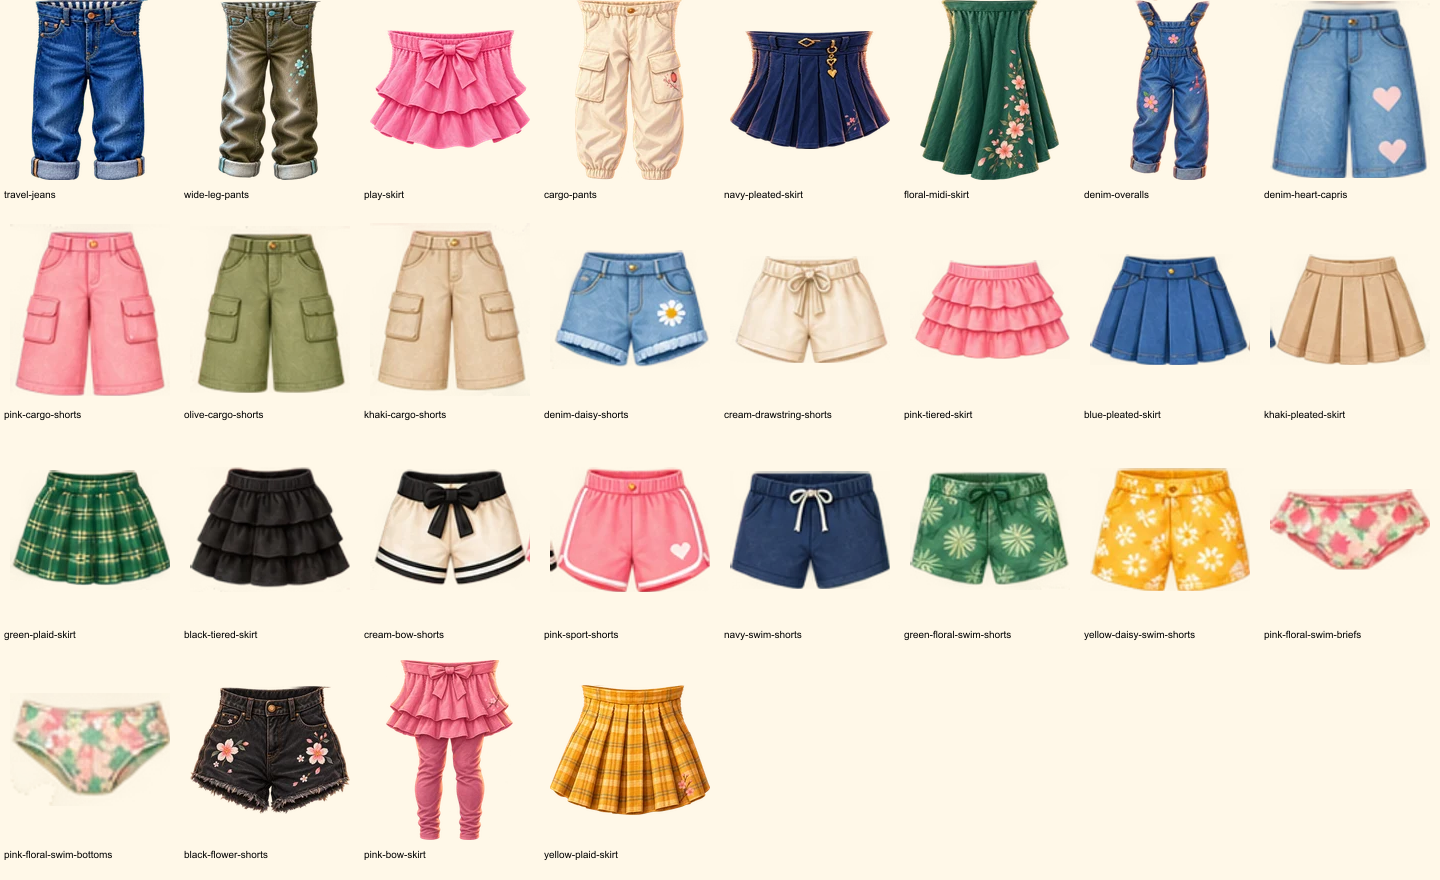
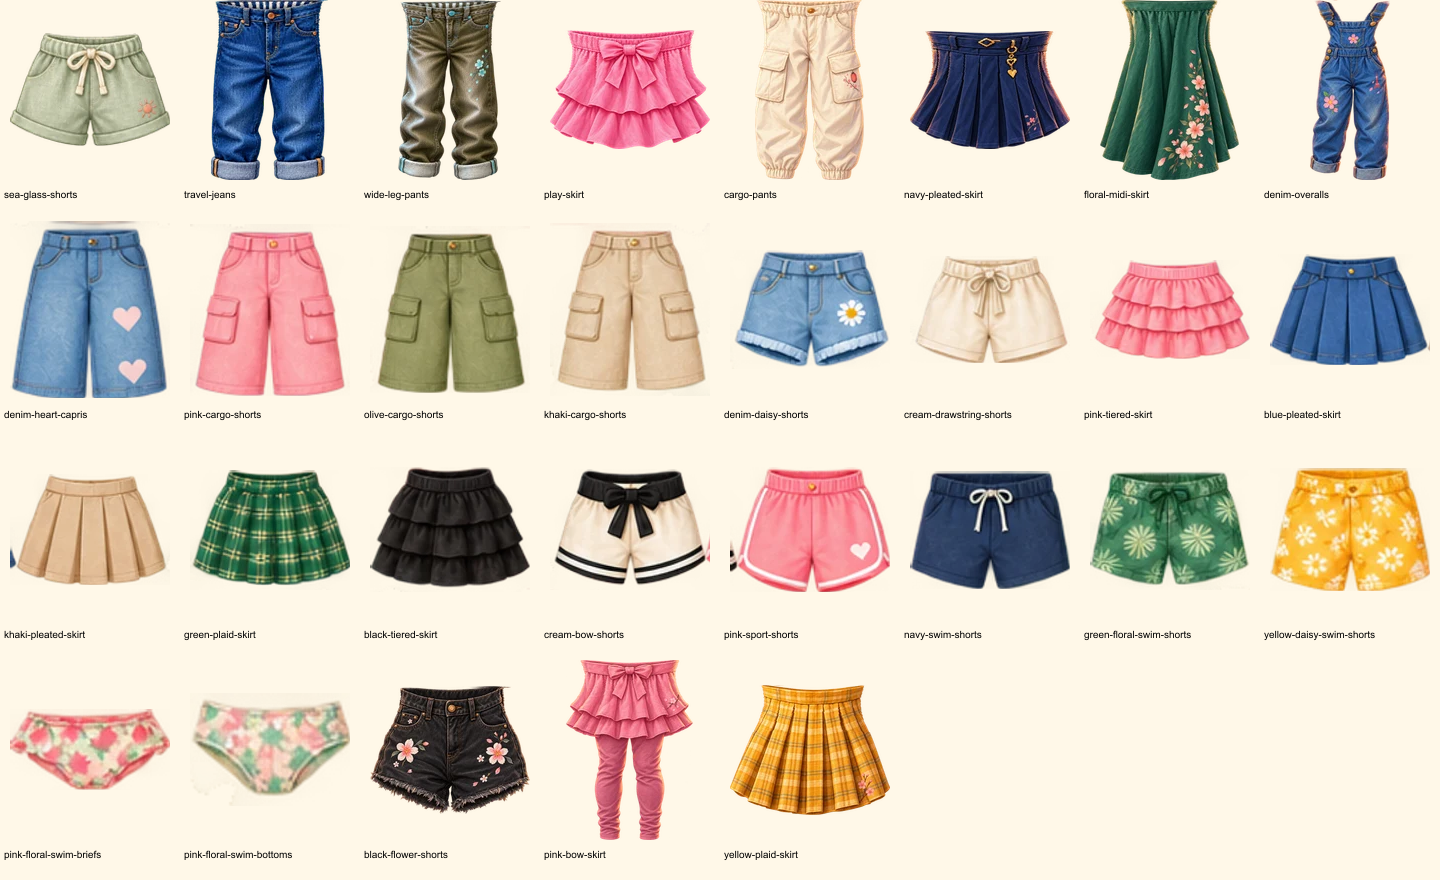
Add Postcard Picnic wardrobe capsule and pretend-play prompts

diff --git a/src/LittleJetterApp.tsx b/src/LittleJetterApp.tsx
@@ -10,6 +10,14 @@ import { DOLL_LAYER_ORDER } from './data/garmentManifest';
 import { ParentUpdates } from './ParentUpdates';
 import { equipPiece } from './wardrobeLogic';
 
+const DRESS_UP_IDEAS = [
+  'Dress for a picnic with your travel buddy. What would you pack?',
+  'Pick two favorite colors and build a look around them.',
+  'Imagine a rainy-day treasure hunt. What keeps your traveler cozy?',
+  'Make an outfit for a train ride to a make-believe place.',
+  'Choose something your buddy would love. Tell a story about your trip.',
+];
+
 type ExploreContent = {
   gastronomy?: { name: string; blurb: string }[];
   vocabulary?: { term: string; meaning: string }[];
@@ -432,6 +440,7 @@ export function LittleJetterApp() {
   // child can wear a bag/sunglasses and a hat at the same time instead of
   // the two competing for one slot.
   const [hatPick, setHatPick] = useState('none');
+  const [dressUpIdea, setDressUpIdea] = useState(0);
   const [activeAvatarSheet, setActiveAvatarSheet] = useState<AvatarFeature | null>(null);
   const [headFilter, setHeadFilter] = useState<(typeof HEAD_FILTERS)[number]['id']>('all');
   const [exploreView, setExploreView] = useState<'journal' | 'gastronomy' | 'memory' | 'words' | 'sites'>('journal');
@@ -878,6 +887,14 @@ export function LittleJetterApp() {
     triggerCelebration([30, 40, 30, 40, 60]);
   }
 
+  function wearPostcardPicnic() {
+    setPicks(current => ({ ...current, tops: 'citrus-pocket-shirt', bottoms: 'sea-glass-shorts', layers: 'none', shoes: 'cream-sneakers', accessories: 'postcard-satchel' }));
+    setHatPick('none');
+    setGarmentColors({}); setGarmentScale({}); setGarmentOffset({}); setGarmentRotation({}); setResizeTarget(null);
+    showTravelConfirmation('Postcard Picnic is on! Mix in any pieces you like.');
+    triggerCelebration(18);
+  }
+
   const chosen = (group: PickGroup) => {
     if (picks[group] === 'none') return { id: 'none', name: 'Nothing yet', description: 'Choose a piece', note: 'Choose a piece', imageUrl: '', slot: 'top' as const, tags: [] };
     const item = catalogItemFor(selected.id, group, picks[group]) ?? wardrobe[group][0];
@@ -1204,6 +1221,19 @@ export function LittleJetterApp() {
                 </aside>
                 <div className="little-closet">
                   <div className="little-surprise-bar"><div><small>My paper-doll closet</small><strong>Tap a piece to dress your doll.</strong></div><div className="little-look-actions"><button type="button" onClick={surpriseMe}>Surprise me</button><button type="button" onClick={clearLook}>Clear look</button><button type="button" onClick={saveLook}>Save my look</button></div></div>
+                  <section className="little-picnic-card" aria-labelledby="picnic-title">
+                    <div className="little-picnic-pieces" aria-hidden="true">
+                      {['citrus-pocket-shirt', 'sea-glass-shorts', 'postcard-satchel'].map(id => {
+                        const item = Object.values(wardrobe).flat().find(piece => piece.id === id);
+                        const thumbnail = item?.imageUrl && (wardrobeThumbnails as Record<string, string>)[item.imageUrl];
+                        return thumbnail ? <img key={id} src={thumbnail} alt="" loading="lazy" /> : null;
+                      })}
+                    </div>
+                    <small>A little outfit adventure</small><h3 id="picnic-title">Postcard Picnic</h3>
+                    <p>A citrus pocket, sunshine shorts, and a bag for pretend treasures.</p>
+                    <button type="button" onClick={wearPostcardPicnic}>Try this outfit</button>
+                    <div className="little-dress-up-idea"><strong>Let’s pretend…</strong><p role="status" aria-live="polite">{DRESS_UP_IDEAS[dressUpIdea]}</p><button type="button" onClick={() => setDressUpIdea(current => (current + 1) % DRESS_UP_IDEAS.length)}>Another idea</button></div>
+                  </section>
                   <details className="little-task-drawer little-my-looks"><summary><strong>My saved looks</strong><b>Open</b></summary><div>{savedLooks.length ? savedLooks.map((look) => <button type="button" onClick={() => restoreLook(look)} key={look.id}><strong>{look.name}</strong><small>Tap to wear again</small></button>) : <p>Save a look and it will wait here on this device.</p>}</div></details>
                   <button type="button" className="little-next" onClick={() => showStep('explore')}>Let’s explore <span>→</span></button>
                 </div>

diff --git a/src/child-polish.css b/src/child-polish.css
@@ -103,6 +103,11 @@
 .little-jetter-shell{overflow-x:clip!important}
 .little-side-rail{overflow:visible!important;flex-basis:62px!important}
 .little-category-rail-btn{width:62px!important}
+.little-picnic-card{margin:12px 0;padding:18px;border:2px solid #d5dec5;border-radius:18px;background:#fffaf0;color:#173a47}
+.little-picnic-card h3{margin:4px 0 8px;font-size:24px}.little-picnic-card p{font-size:15px;line-height:1.5;margin:8px 0 12px}.little-picnic-card>small{font-size:13px;font-weight:700;color:#496257}
+.little-picnic-pieces{display:flex;justify-content:center;gap:10px;margin-bottom:10px}.little-picnic-pieces img{width:28%;height:94px;object-fit:contain}
+.little-picnic-card button{min-height:48px;padding:10px 16px;border:2px solid #173a47;border-radius:12px;background:#173a47;color:#fffaf0;font:inherit;font-weight:700;cursor:pointer}
+.little-picnic-card button:focus-visible{outline:3px solid #ad4937;outline-offset:4px}.little-dress-up-idea{margin-top:18px;padding-top:16px;border-top:1px dashed #9cae9b}.little-dress-up-idea button{background:transparent;color:#173a47}.little-dress-up-idea p{min-height:3em}
 .little-place-filters summary::marker{content:''}
 .little-place-filters summary::-webkit-details-marker{display:none}
 .little-kindness-prompt{flex-wrap:wrap}.little-kindness-prompt strong{font-size:17px}

diff --git a/src/ParentUpdates.tsx b/src/ParentUpdates.tsx
@@ -36,7 +36,7 @@ export function ParentUpdates() {
   }
 
   return <section aria-label="App updates"><h3>App updates</h3>
-    <p>The latest play changes are included in this TestFlight build. Updates are optional.</p>
+    <p>Get new play updates when you are ready. Updates are optional, and saved adventures stay on this device.</p>
     <p>By choosing “Check for updates”, you agree to connect to Little Jetter’s Cloudflare file storage to check for and download an update. Normal connection information, such as an IP address and requested files, is sent. No stories, outfits, journal entries, device ID, or advertising ID are sent. Background checks are off.</p>
     <button type="button" disabled={busy} onClick={ready ? install : check}>{busy ? 'Please wait…' : ready ? 'Restart and use update' : 'Check for updates'}</button>
     <p role="status" aria-live="polite">{message}</p>
